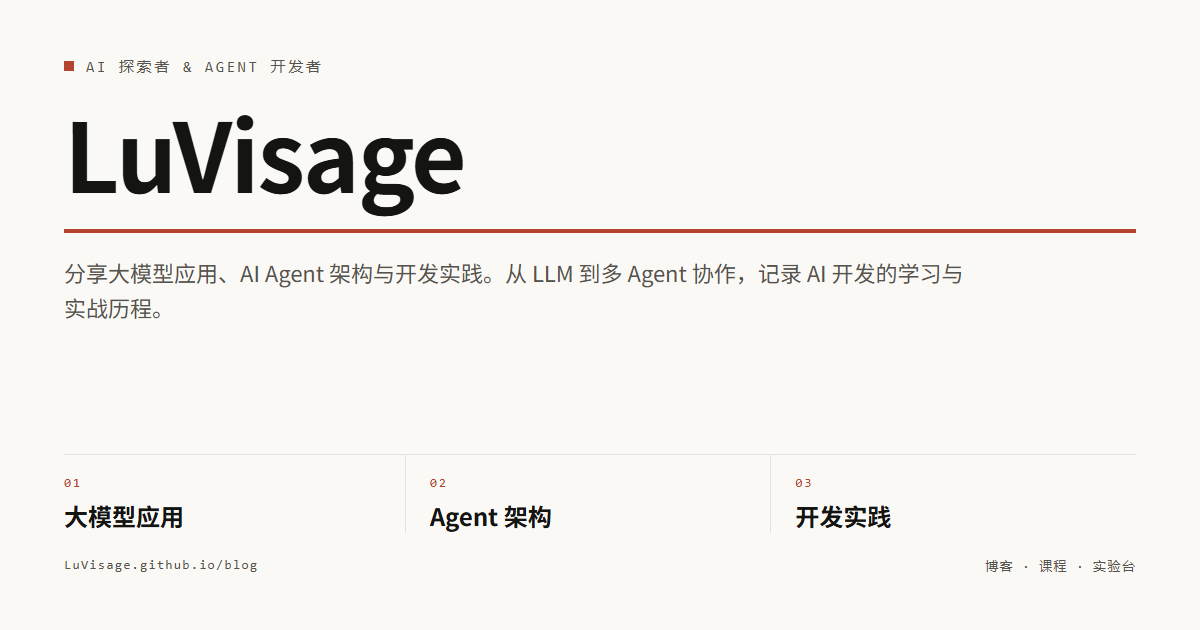
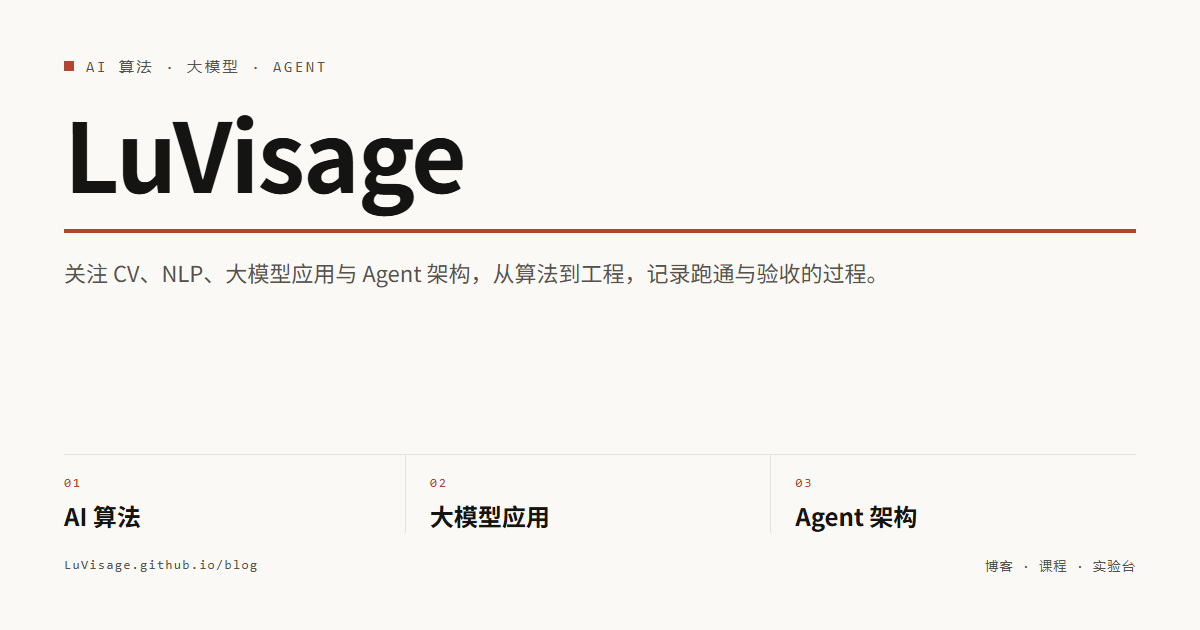
简介扩宽 + 主张换嗓 · 写作即思考 → 算法要跑通工程要验收：constants 单一真源、CV/NLP 进简介与方向、OG/feeds 同步、emoji 清零（§11.54）

diff --git a/lib/constants.ts b/lib/constants.ts
@@ -45,7 +45,7 @@ export const THEME_COLORS = {
 
 export const SITE = {
   title: 'LuVisage',
-  description: 'AI 探索者 & Agent 开发者。分享大模型应用、AI Agent 架构与开发实践。从 LLM 到多 Agent 协作，记录 AI 开发的学习与实战历程。',
+  description: 'AI 算法与工程实践笔记。关注 CV、NLP、大模型应用与 Agent 架构，从算法到工程，记录跑通与验收的过程。',
   url: `${SITE_ORIGIN}${DEPLOY_BASE_PATH}`,
   repo: 'https://github.com/LuVisage/blog',
   author: {
@@ -183,8 +183,9 @@ export const PROJECTS: Project[] = [
 export const NOW = {
   personalNote: '',
   focus: [
-    'AI Agent 架构与多 Agent 协作',
+    'AI 算法：CV、NLP 与深度学习实践',
     '大模型应用：RAG、工具调用与工程化',
+    'AI Agent 架构与多 Agent 协作',
     '技术写作：把跑通的东西讲清楚',
   ],
 } as const
@@ -205,22 +206,23 @@ export const USES = {
 
 export const ABOUT = {
   greeting: '你好，我是 LuVisage',
-  title: 'AI 探索者 & Agent 开发者',
-  shortBio: '关注大模型应用、Agent 架构与工程实践，也记录把技术讲清楚的过程。',
+  title: 'AI 算法 · 大模型 · Agent',
+  shortBio: '关注 AI 算法、CV、NLP、大模型应用与 Agent 架构。',
   bio: `
-我专注于 AI Agent 开发与大模型应用实践。在这个博客里，我分享 AI 开发中的实战经验与技术思考，记录构建智能体应用的探索过程。
+我关注 AI 算法与工程实践：计算机视觉、自然语言处理、大模型应用与 Agent 架构。在这个博客里，我分享从算法到工程的实战经验与技术思考，记录把东西跑通、把工程验收的过程。
 
-我相信 **写作是最好的思考方式**。通过写作，我能更深入地理解技术本质，也希望能帮助到同样在这条路上探索的朋友。
+我相信 **算法要跑通，工程要验收**。跑通是底线，验收是标准；写作是为了把这两件事讲清楚，也希望能帮助到同样在这条路上探索的朋友。
 
 目前主要关注的方向：`,
   focusAreas: [
-    { icon: 'robot', title: 'AI Agent 架构', desc: '多 Agent 协作、工具调用、Agent 框架' },
+    { icon: 'brain', title: 'AI 算法', desc: '计算机视觉、自然语言处理与深度学习实践' },
     { icon: 'brain', title: '大模型应用', desc: 'Prompt Engineering、RAG、Fine-tuning' },
-    { icon: 'tools', title: 'AI 开发工具链', desc: '框架评测、开发效率提升' },
-    { icon: 'pencil', title: '技术写作', desc: '将复杂的 AI 概念用通俗的语言讲清楚' },
+    { icon: 'robot', title: 'AI Agent 架构', desc: '多 Agent 协作、工具调用、Agent 框架' },
+    { icon: 'tools', title: '工程与工具链', desc: '框架评测、开发效率、跑通与验收' },
+    { icon: 'pencil', title: '技术写作', desc: '把复杂的 AI 概念用通俗的语言讲清楚' },
   ],
   skills: ['Python', 'TypeScript', 'React', 'Next.js', 'LangChain', 'OpenAI API', 'Docker', 'Git'],
   timeline: [
-    { year: '2026', title: '搭建个人博客', description: '用 Next.js 构建技术写作平台，开始 AI Agent 开发之旅' },
+    { year: '2026', title: '搭建个人博客', description: '用 Next.js 构建技术写作平台，记录从算法到工程的实践' },
   ],
 }

diff --git a/app/about/page.tsx b/app/about/page.tsx
@@ -63,17 +63,17 @@ export default function AboutPage() {
               <div className="shead" style={{ flexWrap: 'wrap' }}>
                 <span className="snum" aria-hidden="true">01</span>
                 <h2>自述</h2>
-                <span className="smeta">MANIFESTO · 写作即思考</span>
+                <span className="smeta">MANIFESTO · 从算法到工程</span>
               </div>
               <p className="ptitle" style={{ marginTop: 'var(--space-8)' }}>
-                写作是最好的<br />思考方式<span style={{ color: 'var(--accent-text)' }}>。</span>
+                算法要跑通<br />工程要验收<span style={{ color: 'var(--accent-text)' }}>。</span>
               </p>
               <div className="prose" style={{ marginTop: 'var(--space-24)' }}>
                 <p>
-                  我专注于 AI Agent 开发与大模型应用实践。在这个博客里，我分享 AI 开发中的实战经验与技术思考，记录构建智能体应用的探索过程。
+                  我关注 AI 算法与工程实践：计算机视觉、自然语言处理、大模型应用与 Agent 架构。在这个博客里，我分享从算法到工程的实战经验与技术思考，记录把东西跑通、把工程验收的过程。
                 </p>
                 <p>
-                  我相信<strong>写作是最好的思考方式</strong>。通过写作，我能更深入地理解技术本质，也希望能帮助到同样在这条路上探索的朋友。
+                  我相信<strong>算法要跑通，工程要验收</strong>。跑通是底线，验收是标准；写作是为了把这两件事讲清楚，也希望能帮助到同样在这条路上探索的朋友。
                 </p>
               </div>
             </section>

diff --git a/app/page.tsx b/app/page.tsx
@@ -54,11 +54,11 @@ export default function HomePage() {
             <p className="hero-eyebrow">{SITE.title} — {ABOUT.title}</p>
             <p className="hero-lede">我相信</p>
             <h1 className="hero-h1">
-              <span className="ln"><span>写作是最好的</span></span>
-              <span className="ln"><span>思考方式<i className="dot">。</i></span></span>
+              <span className="ln"><span>算法要跑通</span></span>
+              <span className="ln"><span>工程要验收<i className="dot">。</i></span></span>
             </h1>
             <p className="hero-bio">
-              {ABOUT.shortBio}从 LLM 到多 Agent 协作，记录 AI 开发的学习与实战历程。
+              {ABOUT.shortBio}跑通是底线，验收是标准；写作是为了把这两件事讲清楚。
             </p>
             <p className="hero-attr">
               —— 作者自述 · <Link href="/about" className="no-underline" style={{ color: 'inherit' }}>ABOUT</Link>

diff --git a/components/about-sections.tsx b/components/about-sections.tsx
@@ -130,7 +130,7 @@ export function FriendsSection() {
       )}
 
       <p className="body-md max-w-xl mb-8">
-        如果你也在写 AI、Agent 或工程实践方向的博客，欢迎交换友链。
+        如果你也在写 AI 算法、大模型、Agent 或工程实践方向的博客，欢迎交换友链。
         把站点的名称、简介和 RSS 发给我，我会连同你的信息一起登记在上面这份清单里。
       </p>
       <div style={{ borderTop: '1px solid var(--line-strong)' }}>

diff --git a/SPEC_LEDGER.md b/SPEC_LEDGER.md
@@ -2716,3 +2716,17 @@ aria 与键盘/焦点闭环、storage key 与值形状、时序档位）。
 - 证据：build 审计 1160 通过（build-rename3.log）；npm run check rc=0 · discipline 违规 0（gate-rename2-check.log）；contrast 0 处 · scrollbar PASS · narrow 0 · names 全合格 · ZL 全部通过 · ZM 全部通过，整组 0 FAIL（gate-rename2-browser.log）。
 - 目检：shots-rename/ 首页亮暗（红 V 刊头）、about（你好，我是 LuVisage）、文章 byline（LuVisage）、og-default.png 新卡。
 - CRLF：本轮编辑文件逐次归一（constants / header / manifest / og-svg / README / DESIGN）。
+
+### 11.54 简介扩宽 + 巨字主张换嗓 · 写作即思考 → 跑通验收（2026-11-20）
+
+- 用户原话：「我认为你需要再改一下我的简介，因为我不止关注agent，大模型应用，我还关注一些AI算法，CV，NLP这些，同时，写作是最好的思考方式这句话哦我感觉也有点不妥，你看看别的博客是怎么介绍的，参考一下」；嗓音三选回复「[No preference]」→ 落推荐项跑通验收派。追加指令「代码中不要出现emoji」。
+- 参照结论（五标杆实测，ref-*.png 与 blog-reference-sites 记忆）：overreacted 无格言只索引、leerob「I'm an engineer and writer.」+ 使命句、antfu 自述身份与热情、paco「Crafting interfaces.」、yihui 事实自嘲——无人把借来的最高级格言放首页。用户对「写作是最好的思考方式」的不妥直觉成立：借来格言 + 「最好」绝对化。
+- 新主张：巨字「算法要跑通 / 工程要验收。」（红 。锚不变），继承本站「跑通」印章母题，是自己的工程信条；写作降为工具嗓「写作是为了把这两件事讲清楚」，保留写作身份去掉绝对化。关于页 manifesto 同嗓：眉题 MANIFESTO · 从算法到工程、巨字同句、自述两段与 ABOUT.bio 同步。
+- 简介扩宽单一真源 lib/constants.ts：SITE.description / ABOUT.title（AI 算法 · 大模型 · Agent）/ shortBio / bio / NOW.focus / timeline；focusAreas 4→5（新增 AI 算法 首项、desc 点名计算机视觉与自然语言处理；AI 开发工具链 → 工程与工具链）。CV / NLP 进 description / shortBio / bio / focusAreas；title 保持短句保 xl 刊头 wm-sub 不溢出。
+- 视图层同步：app/page.tsx hero 两行巨字 + bio 尾句（lede「我相信」保留，信条作相信宾语）；about 页眉题 / 巨字 / 两段；about-sections 友链邀请句扩到 AI 算法 / 大模型 / Agent。header wm-sub、footer、about masthead 全读 ABOUT.title 自动随动，零硬编码。
+- 静态资产：manifest name/description；og-default.svg 副题 + 底句；og-card.mjs 眉题 / desc / 三栏（01 AI 算法 / 02 大模型应用 / 03 Agent 架构）重生成 og-default.png 并目检；README 两段。feeds 三件套经 prebuild 同源再生。
+- emoji 清零：全仓扫（app/components/lib/public/scripts + README/DESIGN）命中 2 处——og-default.svg 🤖、rss.xsl 💡，均除；复扫 0 命中。台账历史条目保留档案性质。
+- 探针零改动理由：ZL/ZM 身份断言上一轮已改读 SITE（§11.53），本轮文案换嗓自然随动；batchm.mjs 量的是旧版 hero echo 行（终端提示符 / sr-char 已不在源码），属退役探针不在闸链，未动。
+- 证据：npm run check rc=0；build 审计 1160 通过（build-bio.log）；contrast / scrollbar-contrast / narrow-overflow / names / ZL / ZM 六闸 rc=0 · 整组 0 FAIL（gates-bio.log）；ZM 首屏契约不变：眉题 y=163、自述行 y=608、首索引行 top=727、390px wm-sub 隐藏。
+- 目检：shots-bio/ 四张 home/about 亮暗。首轮截图撞 riseIn 半落（首行灰、二行隐）——.hero-h1 .ln > span 有 800ms+200ms 逐行落位，shot 未传 --wait，属截图量具问题非文案回归；--wait=2500 重拍全落位（亮墨 / 暗纸白，红 。与跑通印章在）。
+- CRLF：本轮编辑文件逐次归一（constants / page / about page / about-sections / manifest / og-svg / README / rss.xsl）。

diff --git a/README.md b/README.md
@@ -1,8 +1,8 @@
 # LuVisage Blog
 
-这是我的个人技术博客。我是一名 AI 探索者与 Agent 开发者，在这里记录大模型应用、AI Agent 架构与开发实践——从 LLM 到多 Agent 协作，从 Prompt Engineering 到 RAG、微调，还有一路上的学习与实战历程。
+这是我的个人技术博客。我关注 AI 算法与工程实践——计算机视觉、自然语言处理、大模型应用与 Agent 架构，在这里记录从算法到工程的跑通与验收过程。
 
-我相信写作是最好的思考方式：把复杂的技术概念写清楚，既是对自己的整理，也希望能帮到同样走在这条路上的朋友。
+我相信算法要跑通，工程要验收：跑通是底线，验收是标准；写作是为了把这两件事讲清楚，也希望能帮到同样走在这条路上的朋友。
 
 ## 功能
 
